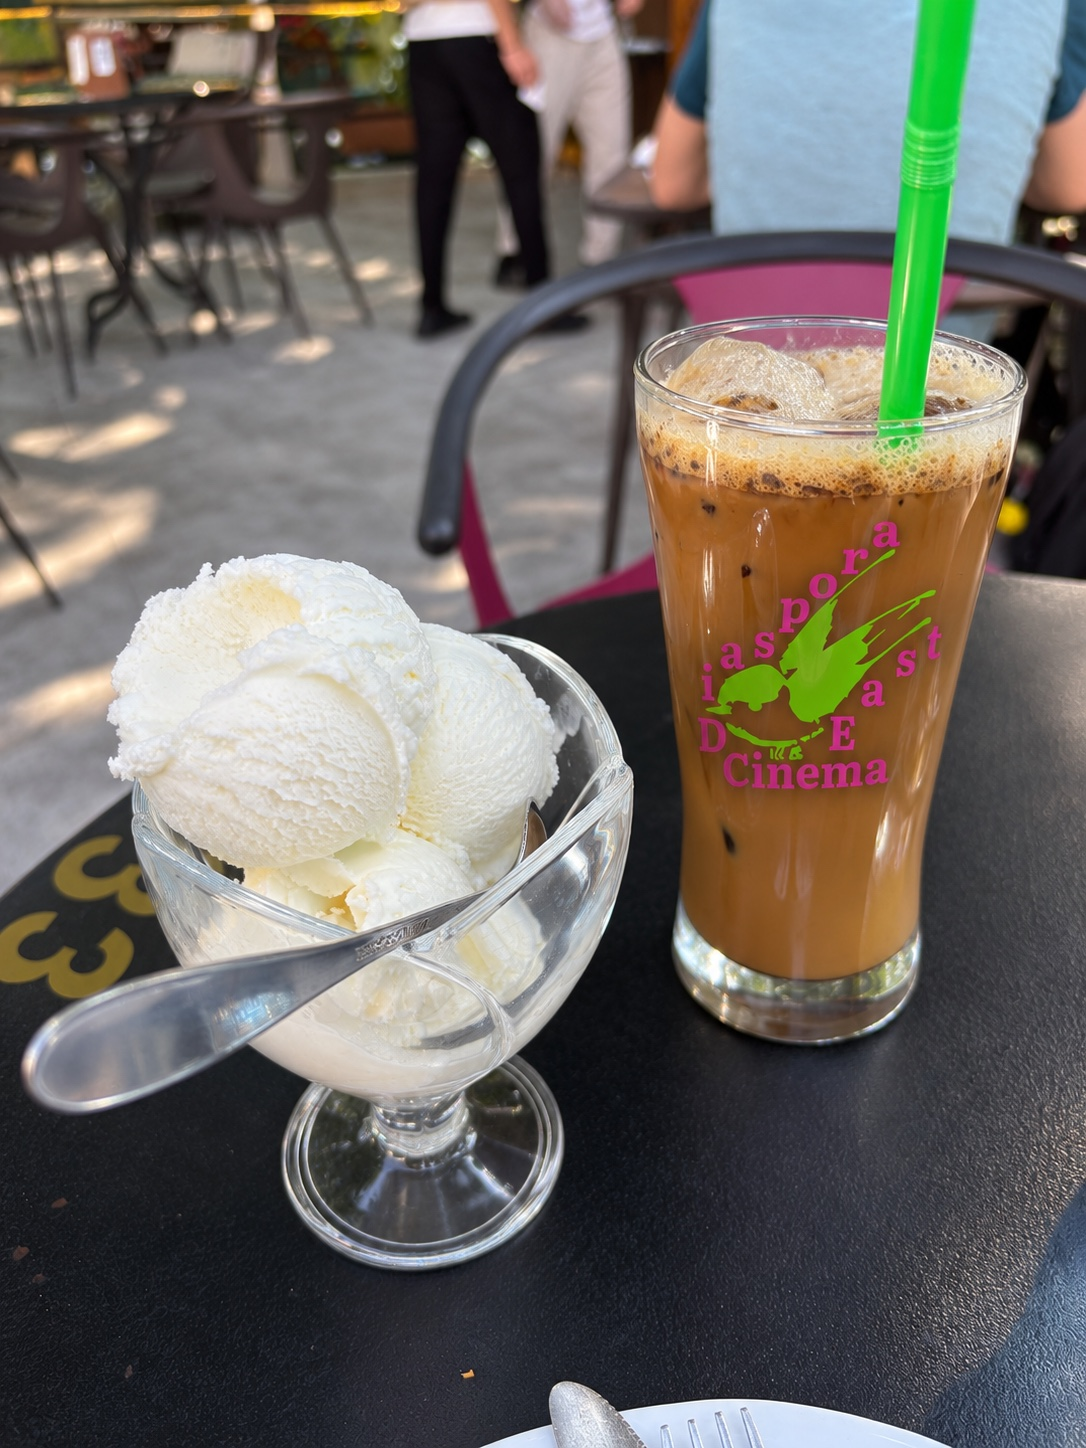
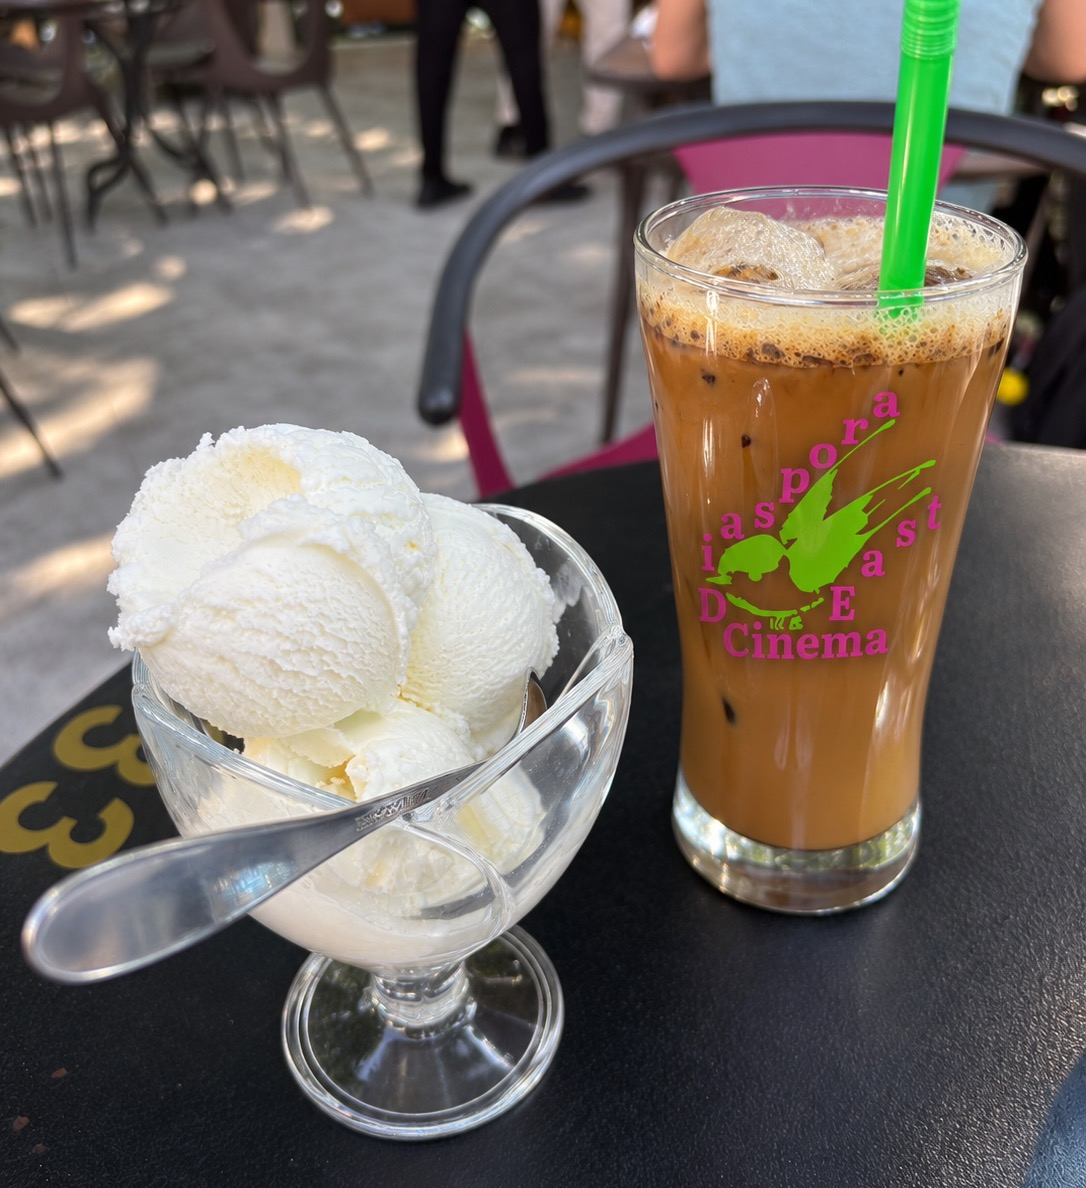
Diaspora glass photos slider; shorter copyright line
- Diaspora East Cinema: iced coffee and wine glass photos in a slider, same size
- Footer now reads "© 2026 yinuo xuanyuan"

diff --git a/works.html b/works.html
@@ -70,7 +70,14 @@
   
       <section class="stills">
         <figure><img src="assets/diaspora-east-cinema.jpg" alt="Diaspora East Cinema — visual identity"></figure>
-        <figure><img src="assets/diaspora-east-cinema-cup.jpg" data-dark="0.45-1" alt="Iced coffee in a glass printed with the Diaspora East Cinema logo"></figure>
+        <!-- 杯子照片：一次显示一张，点击或左右滑动看下一张 -->
+        <figure class="slider-wrap">
+          <div class="slider" tabindex="0" aria-label="Glasses with the logo, click or swipe for the next one">
+            <img src="assets/diaspora-east-cinema-cup.jpg" data-dark="0.45-1" alt="Iced coffee in a glass printed with the Diaspora East Cinema logo">
+            <img src="assets/diaspora-east-cinema-cup-2.jpg" alt="Wine glasses printed with the Diaspora East Cinema logo">
+          </div>
+          <figcaption class="slider-count">1 / 2</figcaption>
+        </figure>
       </section>
     </article>
 
@@ -140,7 +147,7 @@
 
   <a class="back-to-top" href="#" hidden>top</a>
 
-  <footer class="site-footer">© 2026 yinuo xuanyuan. All rights reserved.</footer>
+  <footer class="site-footer">© 2026 yinuo xuanyuan</footer>
 
   <script src="nav-contrast.js"></script>
   <script src="still-slider.js"></script>

diff --git a/diaspora-east-cinema.html b/diaspora-east-cinema.html
@@ -31,12 +31,20 @@
 
     <section class="stills">
       <figure><img src="assets/diaspora-east-cinema.jpg" alt="Diaspora East Cinema — visual identity"></figure>
-      <figure><img src="assets/diaspora-east-cinema-cup.jpg" data-dark="0.45-1" alt="Iced coffee in a glass printed with the Diaspora East Cinema logo"></figure>
+      <!-- 杯子照片：一次显示一张，点击或左右滑动看下一张 -->
+      <figure class="slider-wrap">
+        <div class="slider" tabindex="0" aria-label="Glasses with the logo, click or swipe for the next one">
+          <img src="assets/diaspora-east-cinema-cup.jpg" data-dark="0.45-1" alt="Iced coffee in a glass printed with the Diaspora East Cinema logo">
+          <img src="assets/diaspora-east-cinema-cup-2.jpg" alt="Wine glasses printed with the Diaspora East Cinema logo">
+        </div>
+        <figcaption class="slider-count">1 / 2</figcaption>
+      </figure>
     </section>
   </main>
 
-  <footer class="site-footer">© 2026 yinuo xuanyuan. All rights reserved.</footer>
+  <footer class="site-footer">© 2026 yinuo xuanyuan</footer>
 
   <script src="nav-contrast.js"></script>
+  <script src="still-slider.js"></script>
 </body>
 </html>

diff --git a/style.css b/style.css
@@ -222,5 +222,6 @@ body > footer {
   cursor: pointer;
 }
 .slider::-webkit-scrollbar { display: none; }
+.slider { align-items: flex-start; } /* pictures of different heights keep their own shape */
 .slider img { flex: 0 0 100%; width: 100%; scroll-snap-align: start; }
 .stills .slider-count { margin: 10px 0 0; }

diff --git a/tell-me.html b/tell-me.html
@@ -44,7 +44,7 @@
     </section>
   </main>
 
-  <footer class="site-footer">© 2026 yinuo xuanyuan. All rights reserved.</footer>
+  <footer class="site-footer">© 2026 yinuo xuanyuan</footer>
 
   <script src="nav-contrast.js"></script>
   <script src="still-slider.js"></script>

diff --git a/the-uncircus.html b/the-uncircus.html
@@ -34,7 +34,7 @@
     </section>
   </main>
 
-  <footer class="site-footer">© 2026 yinuo xuanyuan. All rights reserved.</footer>
+  <footer class="site-footer">© 2026 yinuo xuanyuan</footer>
 
   <script src="nav-contrast.js"></script>
   <script src="song-player.js"></script>

diff --git a/info.html b/info.html
@@ -28,7 +28,7 @@
   <!-- 内容待添加 -->
   <main></main>
 
-  <footer class="site-footer">© 2026 yinuo xuanyuan. All rights reserved.</footer>
+  <footer class="site-footer">© 2026 yinuo xuanyuan</footer>
 
   <script src="photo-contrast.js"></script>
 </body>

diff --git a/affairs.html b/affairs.html
@@ -32,7 +32,7 @@
     </section>
   </main>
 
-  <footer class="site-footer">© 2026 yinuo xuanyuan. All rights reserved.</footer>
+  <footer class="site-footer">© 2026 yinuo xuanyuan</footer>
 
   <script src="nav-contrast.js"></script>
 </body>

diff --git a/gossip-love.html b/gossip-love.html
@@ -38,7 +38,7 @@
     </section>
   </main>
 
-  <footer class="site-footer">© 2026 yinuo xuanyuan. All rights reserved.</footer>
+  <footer class="site-footer">© 2026 yinuo xuanyuan</footer>
 
   <script src="nav-contrast.js"></script>
 </body>

diff --git a/index.html b/index.html
@@ -22,7 +22,7 @@
     </nav>
   </header>
 
-  <footer class="site-footer">© 2026 yinuo xuanyuan. All rights reserved.</footer>
+  <footer class="site-footer">© 2026 yinuo xuanyuan</footer>
 
   <script src="photo-contrast.js"></script>
 </body>

diff --git a/midnight-ambiguous-zone.html b/midnight-ambiguous-zone.html
@@ -32,7 +32,7 @@
     </section>
   </main>
 
-  <footer class="site-footer">© 2026 yinuo xuanyuan. All rights reserved.</footer>
+  <footer class="site-footer">© 2026 yinuo xuanyuan</footer>
 
   <script src="nav-contrast.js"></script>
 </body>

diff --git a/what-the-hair.html b/what-the-hair.html
@@ -33,7 +33,7 @@
     </section>
   </main>
 
-  <footer class="site-footer">© 2026 yinuo xuanyuan. All rights reserved.</footer>
+  <footer class="site-footer">© 2026 yinuo xuanyuan</footer>
 
   <script src="nav-contrast.js"></script>
 </body>
